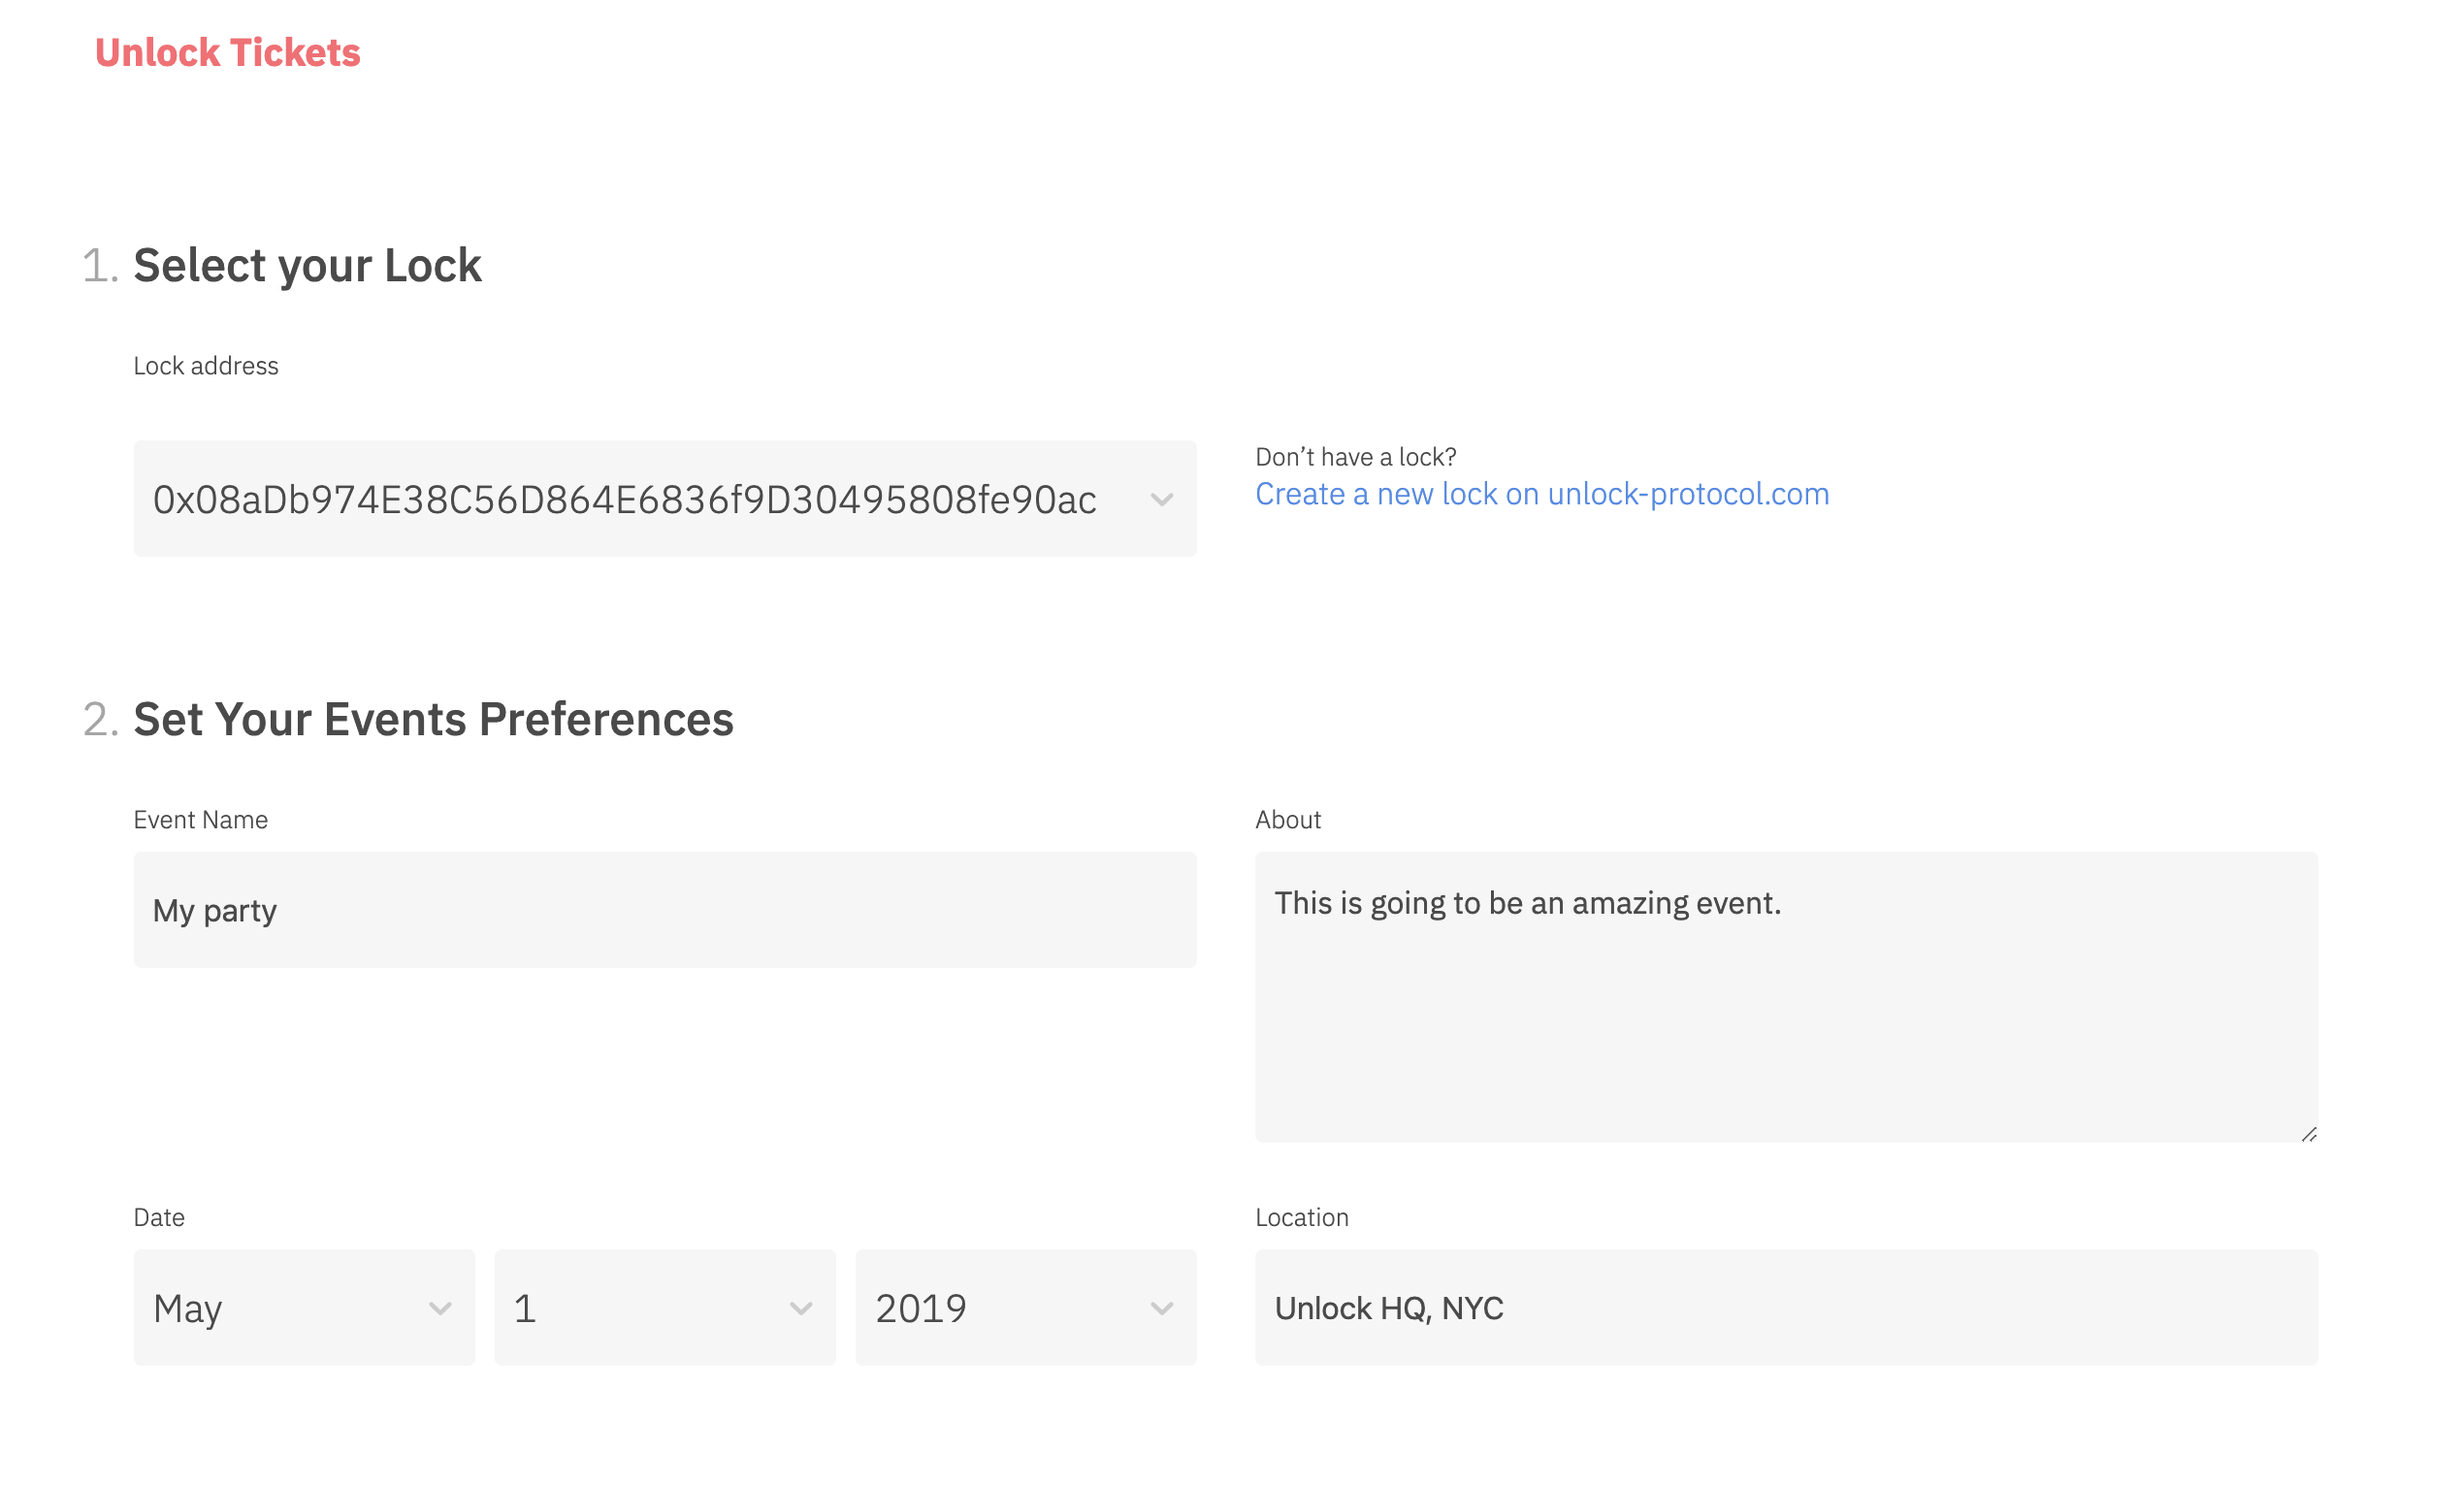
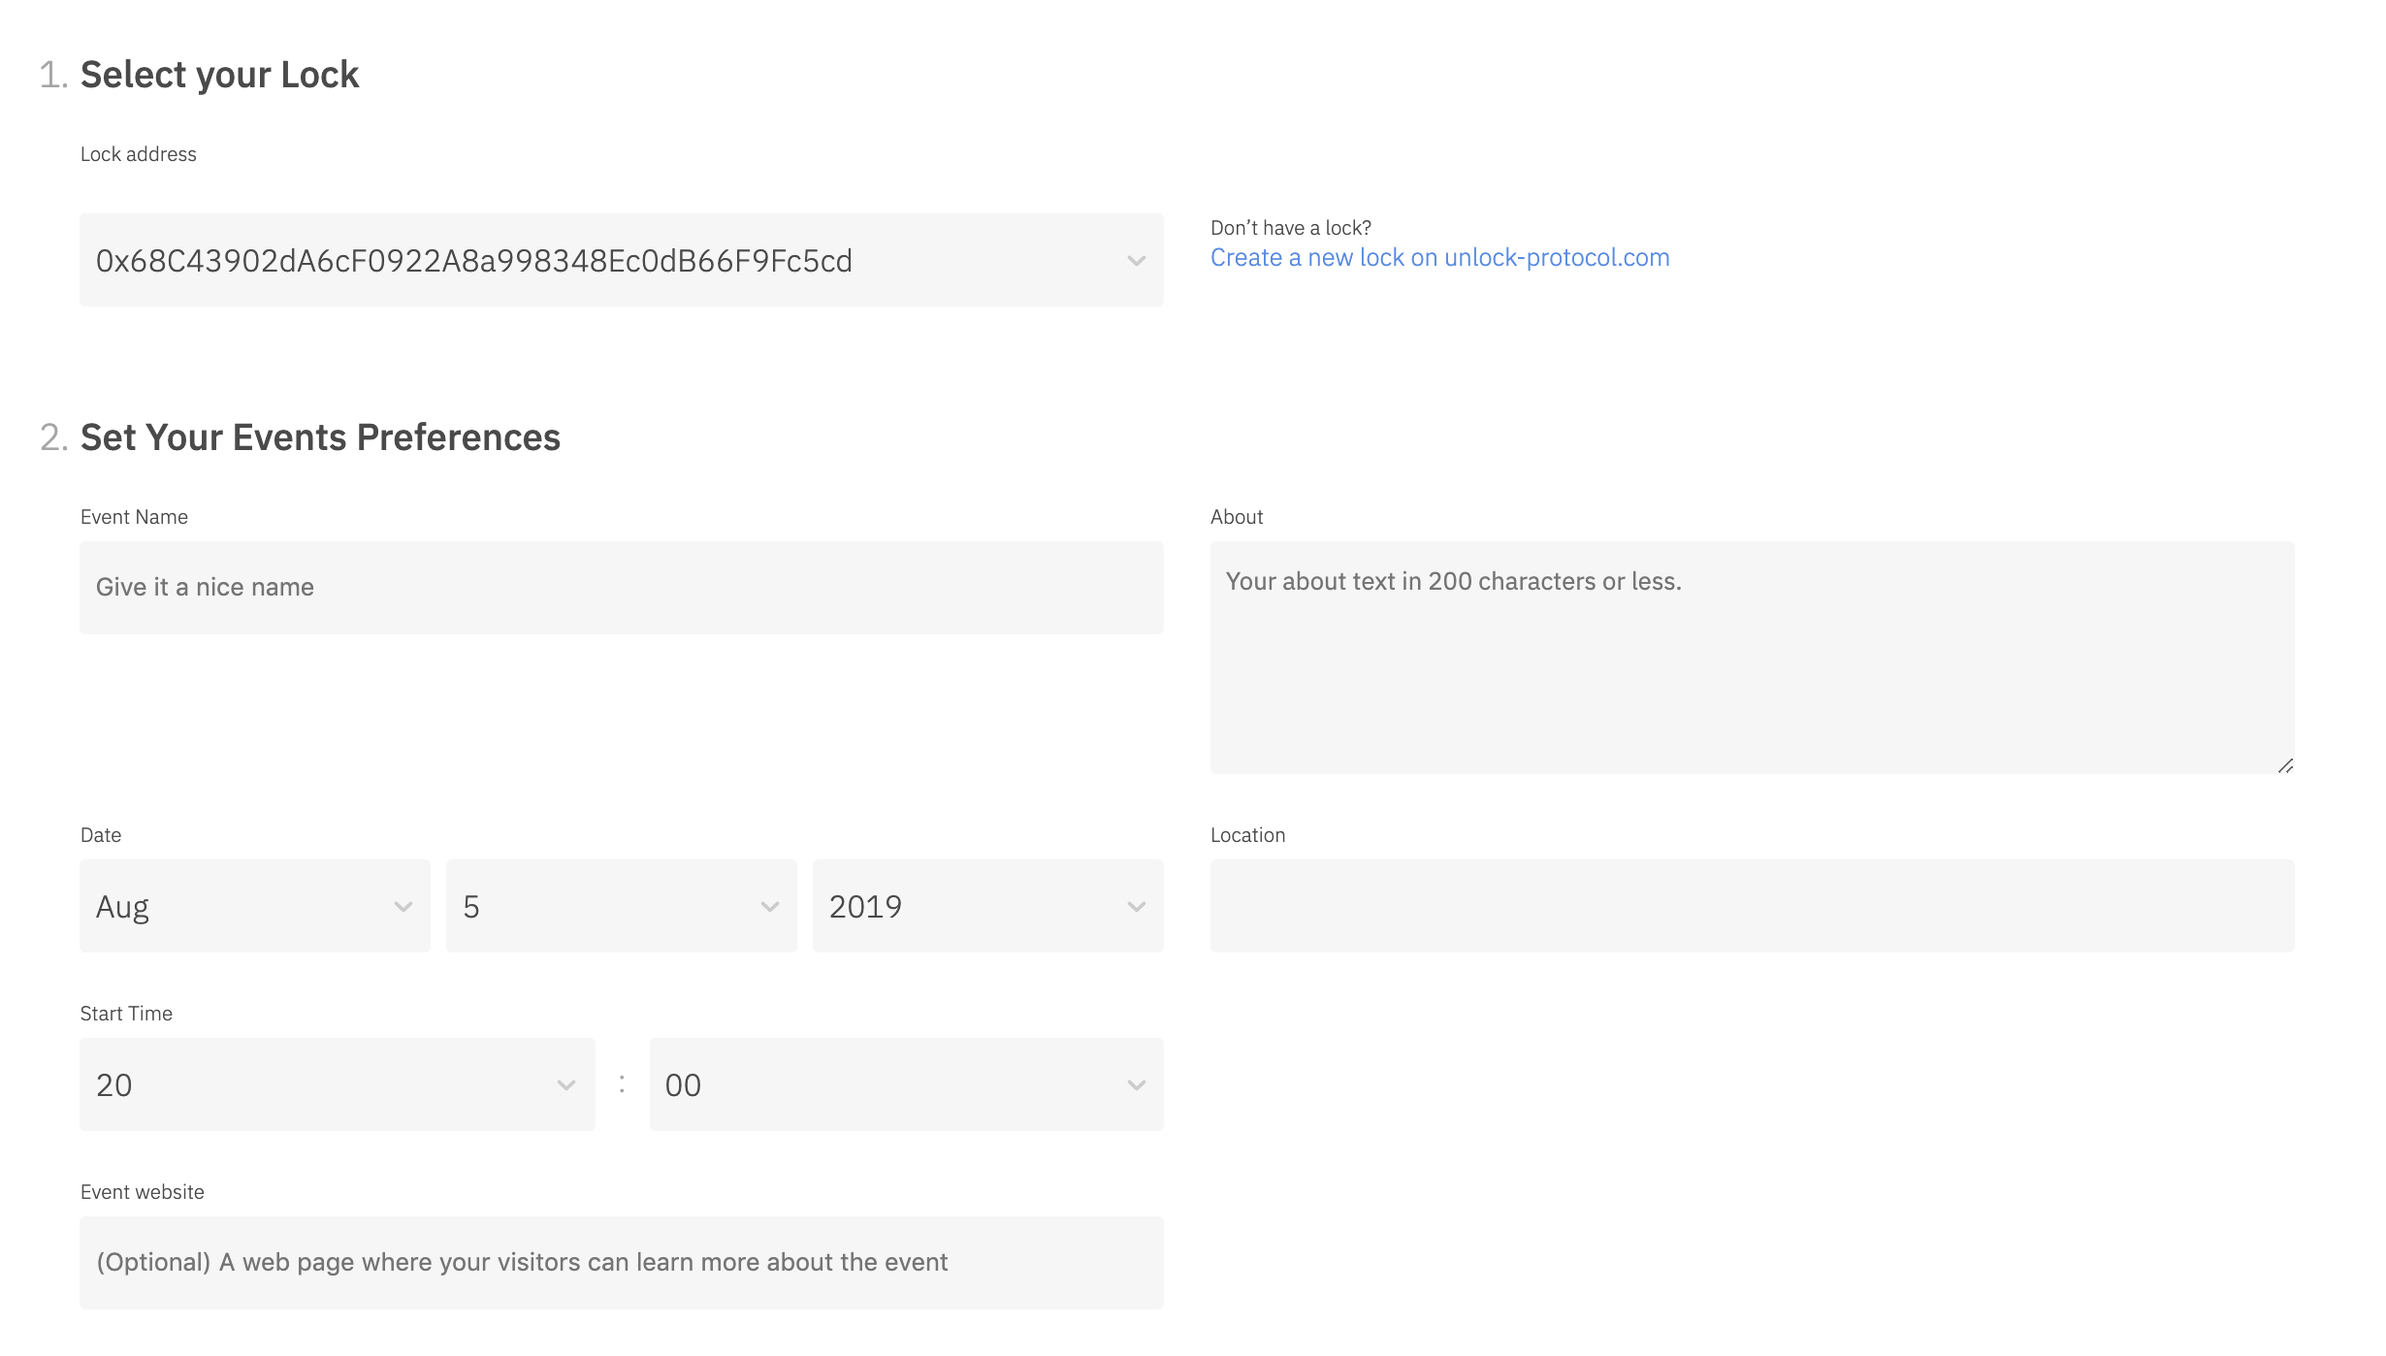
Updating for August 8

diff --git a/unlock-protocol.com/blog/introducing-tickets.md b/unlock-protocol.com/blog/introducing-tickets.md
@@ -2,7 +2,7 @@
 title: Introducing Tickets
 subTitle: Now you can buy tickets to real-world events using Ethereum
 authorName: Ben Werdmuller
-publishDate: April 30, 2019
+publishDate: August 8, 2019
 description: Now you can buy tickets to real-world events using Ethereum and the Unlock Protocol.
 image: /static/images/blog/introducing-tickets/introducing-tickets.jpg
 ---
@@ -16,13 +16,13 @@ things in the real world.
 
 In the future, the Unlock Protocol may be used to sell tickets for transportation, as a way to seamlessly manage room 
 access in hotels and holiday rentals, and as a way to prove you've paid for a membership. Today, we're starting with
-events. Specifically, the 
-[NFT Dev Meetup during NYC Blockchain Week 2019 on May 16, 2019](https://tickets.unlock-protocol.com/event/0x5865Ff2CBd045Ef1cfE19739df19E83B32b783b4).
+events.
 
-We're working with Dapper Labs, OpenSea, and SuperRare to host an event about non-fungible tokens. To attend, all you
-need to do is buy a ticket using Unlock. 
-[Visit the event page with a web3-compatible wallet](https://tickets.unlock-protocol.com/event/0x5865Ff2CBd045Ef1cfE19739df19E83B32b783b4)
-like [Metamask](https://metamask.io) to purchase a ticket at a nominal price.
+You can buy a ticket to the [Berlin Open Source Salon](https://berlin.opensourcesalon.com/) with DAI using Unlock.
+[Visit the Unlock event page](https://tickets.unlock-protocol.com/event/0x98c0cbF0e9525f1a6975A51c9D5E8e063c034D6D),
+purchase a ticket, and then show your special QR code at the door. Your ticket will be validated on the blockchain.
+
+![Berlin Open Source Salon ticket page](/static/images/blog/introducing-tickets/boss-tickets.png)
 
 ## How tickets work with Unlock
 
@@ -40,8 +40,6 @@ An attendee with an Ethereum wallet like Metamask can buy a key with one click. 
 contains the user's public key and a signed version of the lock address. This can be verified at the door with a
 commodity QR code reader, which are now built into the camera apps in every major mobile operating system.
 
-![Unlock ticket screenshot](/static/images/blog/introducing-tickets/unlock-tickets.png)
-
 ## Multi-use locks
 
 On the Unlock Protocol, you're not limited to using one application per lock. This means that a ticketed event and a
@@ -55,8 +53,6 @@ protocol to add even more, the possibilities will become endless.
 
 ## Learn more
 
-To find out more about tickets and Unlock, come see us at the 
-[NFT Dev Meetup on May 16](https://tickets.unlock-protocol.com/event/0x5865Ff2CBd045Ef1cfE19739df19E83B32b783b4). If
-you're not able to travel to New York City or attend the event, you can always join us on our 
-[Github project](https://github.com/unlock-protocol/unlock/) or reach out and say hello at
+We're building Unlock in the open. You can always say hello in our [Telegram group](https://t.me/unlockprotocol), join 
+us on our [Github project](https://github.com/unlock-protocol/unlock/) or reach out at
 [hello@unlock-protocol.com](mailto:hello@unlock-protocol.com). We would love to hear from you.
